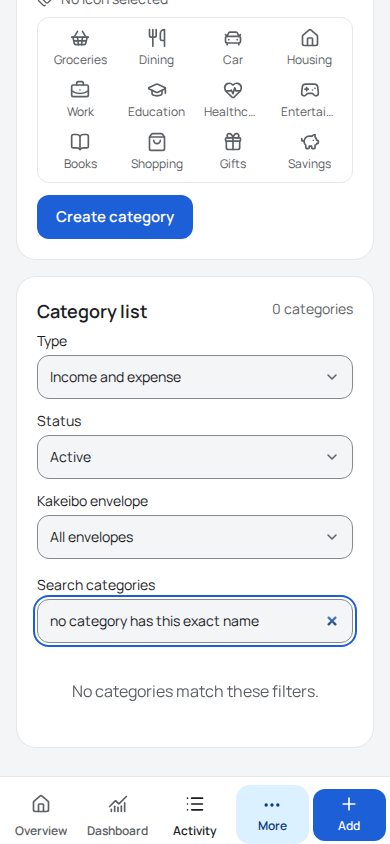
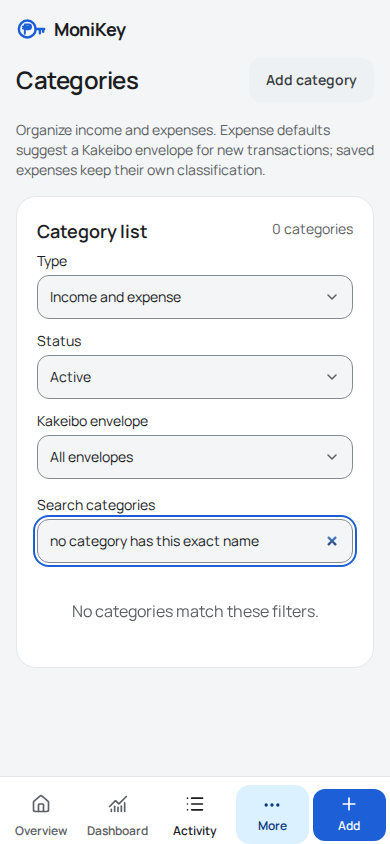
fix(frontend): make category editor mobile-friendly

diff --git a/frontend/src/views/CategoriesView.tsx b/frontend/src/views/CategoriesView.tsx
@@ -1,4 +1,4 @@
-import { useMemo, useState, type FormEvent } from 'react'
+import { useMemo, useRef, useState, type FormEvent } from 'react'
 
 import type { DataSource } from '@/dataSource'
 import { ENVELOPES, ENVELOPE_INFO, envelopeLabel } from '@/lib/kakeibo'
@@ -10,6 +10,7 @@ import { PageHeader } from '@/components/PageHeader'
 import { CategoryIconPicker } from '@/components/CategoryIconPicker'
 import { CategoryIcon } from '@/lib/categoryIcons'
 import { isCategoryIconKey, type CategoryIconKey } from '@/lib/categoryIconRegistry'
+import { Dialog, DialogBody, DialogContent, DialogDescription, DialogFooter, DialogHeader, DialogTitle, DialogTrigger } from '@/components/ui/dialog'
 import type { Category, CategoryType, KakeiboEnvelope } from '@/types'
 import type { Resource } from '@/useResource'
 
@@ -22,6 +23,7 @@ export function CategoriesView({ categories: resource, source, onChanged, onAdd 
   const [envelope, setEnvelope] = useState<KakeiboEnvelope | 'all'>('all')
   const [query, setQuery] = useState('')
   const [pageIndex, setPageIndex] = useState(0)
+  const [editorOpen, setEditorOpen] = useState(false)
   const [editing, setEditing] = useState<Category | null>(null)
   const [name, setName] = useState('')
   const [editEnvelope, setEditEnvelope] = useState<KakeiboEnvelope | ''>('')
@@ -29,6 +31,11 @@ export function CategoriesView({ categories: resource, source, onChanged, onAdd 
   const [saving, setSaving] = useState(false)
   const [message, setMessage] = useState('')
   const [formError, setFormError] = useState('')
+  const [actionError, setActionError] = useState('')
+  const nameRef = useRef<HTMLInputElement>(null)
+  const addTriggerRef = useRef<HTMLButtonElement>(null)
+  const openerRef = useRef<HTMLButtonElement>(null)
+  const focusAddOnCloseRef = useRef(false)
   const rows = useMemo(() => filterCategories(resource.data ?? [], { type, status, envelope, query }), [resource.data, type, status, envelope, query])
   const pageCount = Math.max(1, Math.ceil(rows.length / PAGE_SIZE))
   const page = Math.min(pageIndex, pageCount - 1)
@@ -41,19 +48,28 @@ export function CategoriesView({ categories: resource, source, onChanged, onAdd 
     setEditEnvelope(category?.defaultEnvelope ?? '')
     setIconKey(isCategoryIconKey(category?.iconKey) ? category.iconKey : null)
     setFormError('')
+    setActionError('')
     setMessage('')
+    focusAddOnCloseRef.current = false
   }
 
-  const run = async (action: () => Promise<void>, success: string) => {
+  const run = async (action: () => Promise<void>, success: string, focusAddOnClose = false) => {
     setSaving(true)
     setFormError('')
+    setActionError('')
     try {
       await action()
       setMessage(success)
-      setEditing(null)
+      if (editorOpen) {
+        focusAddOnCloseRef.current = focusAddOnClose
+        setEditorOpen(false)
+        setEditing(null)
+      }
       onChanged()
     } catch (error) {
-      setFormError(error instanceof Error ? error.message : 'Could not save this category. Try again.')
+      const errorText = error instanceof Error ? error.message : 'Could not save this category. Try again.'
+      if (editorOpen) setFormError(errorText)
+      else setActionError(errorText)
     } finally {
       setSaving(false)
     }
@@ -66,27 +82,51 @@ export function CategoriesView({ categories: resource, source, onChanged, onAdd 
     const chosen = editing ? editing.type : formType
     const defaultEnvelope = chosen === 'expense' ? editEnvelope || null : null
     if (!editing) { setType(chosen); setStatus('active'); setEnvelope('all'); setPageIndex(0) }
-    if (editing) void run(() => source.updateCategory(editing.id, { name: normalized, defaultEnvelope, iconKey }), 'Category updated.')
+    if (editing) {
+      const updated = { ...editing, name: normalized, defaultEnvelope, iconKey }
+      const remainsVisible = filterCategories([updated], { type, status, envelope, query }).length > 0
+      void run(() => source.updateCategory(editing.id, { name: normalized, defaultEnvelope, iconKey }), 'Category updated.', !remainsVisible)
+    }
     else void run(() => source.createCategory({ name: normalized, type: chosen, defaultEnvelope, iconKey }), 'Category created.')
   }
 
-  return <div>
-    <PageHeader title="Categories" onAdd={onAdd} />
+  return <Dialog open={editorOpen} onOpenChange={(open) => { if (open || !saving) setEditorOpen(open) }}>
+    <div>
+    <PageHeader title="Categories" onAdd={onAdd}>
+      <DialogTrigger asChild><Button ref={addTriggerRef} variant="secondary" size="sm" onClick={(event) => { openerRef.current = event.currentTarget; beginEdit() }}>Add category</Button></DialogTrigger>
+    </PageHeader>
     <p className="mb-4 text-sm text-muted-foreground">Organize income and expenses. Expense defaults suggest a Kakeibo envelope for new transactions; saved expenses keep their own classification.</p>
     {message && <p role="status" className="mb-4 rounded-control bg-success-soft px-4 py-3 text-sm text-income-ink">{message}</p>}
-    <Card className="mb-4">
-      <CardHeader><CardTitle>{editing ? `Edit ${editing.name}` : 'Add a category'}</CardTitle><CardDescription>Names are unique within income or expense categories.</CardDescription></CardHeader>
-      <CardContent>
-        <form onSubmit={submit} className="grid gap-3 md:grid-cols-[minmax(0,1fr)_minmax(180px,0.7fr)_auto] md:items-end">
-          <label className="grid gap-1.5 text-sm font-medium">Name<input autoComplete="off" maxLength={60} value={name} onChange={(event) => setName(event.target.value)} className="min-h-11 rounded-control border border-input bg-background px-3" /></label>
+    {actionError && <p role="alert" className="mb-4 rounded-control bg-destructive/10 px-4 py-3 text-sm text-destructive">{actionError}</p>}
+    <DialogContent
+      onOpenAutoFocus={(event) => { event.preventDefault(); nameRef.current?.focus() }}
+      onCloseAutoFocus={(event) => {
+        event.preventDefault()
+        const focusTarget = focusAddOnCloseRef.current || !openerRef.current?.isConnected ? addTriggerRef.current : openerRef.current
+        window.requestAnimationFrame(() => focusTarget?.focus())
+        focusAddOnCloseRef.current = false
+      }}
+      onEscapeKeyDown={(event) => saving && event.preventDefault()}
+      onInteractOutside={(event) => saving && event.preventDefault()}
+    >
+      <DialogHeader>
+        <DialogTitle>{editing ? `Edit ${editing.name}` : 'Add a category'}</DialogTitle>
+        <DialogDescription>Names are unique within income or expense categories.</DialogDescription>
+      </DialogHeader>
+      <DialogBody>
+        <form id="category-editor-form" onSubmit={submit} className="grid gap-3">
+          <label className="grid gap-1.5 text-sm font-medium">Name<input ref={nameRef} autoComplete="off" maxLength={60} value={name} onChange={(event) => setName(event.target.value)} className="min-h-11 rounded-control border border-input bg-background px-3" /></label>
           {!editing && <label className="grid gap-1.5 text-sm font-medium">Type<select value={formType} onChange={(event) => setFormType(event.target.value as CategoryType)} className="min-h-11 rounded-control border border-input bg-background px-3"><option value="expense">Expense</option><option value="income">Income</option></select></label>}
           {(editing ? editing.type === 'expense' : formType !== 'income') && <label className="grid gap-1.5 text-sm font-medium">Default Kakeibo envelope<select value={editEnvelope} onChange={(event) => setEditEnvelope(event.target.value as KakeiboEnvelope | '')} className="min-h-11 rounded-control border border-input bg-background px-3"><option value="">No default</option>{ENVELOPES.map((item) => <option key={item} value={item}>{ENVELOPE_INFO[item].label}</option>)}</select></label>}
-          <div className="md:col-span-full"><CategoryIconPicker value={iconKey} onChange={setIconKey} /></div>
-          {formError && <p role="alert" className="text-sm text-destructive md:col-span-full">{formError}</p>}
-          <div className="flex gap-2 md:col-start-3 md:row-start-1">{editing && <Button type="button" variant="secondary" onClick={() => beginEdit()}>Cancel</Button>}<Button disabled={saving}>{saving ? 'Saving…' : editing ? 'Save changes' : 'Create category'}</Button></div>
+          <CategoryIconPicker value={iconKey} onChange={setIconKey} />
+          {formError && <p role="alert" className="text-sm text-destructive">{formError}</p>}
         </form>
-      </CardContent>
-    </Card>
+      </DialogBody>
+      <DialogFooter>
+        <Button type="button" variant="secondary" disabled={saving} onClick={() => setEditorOpen(false)}>Cancel</Button>
+        <Button type="submit" form="category-editor-form" disabled={saving}>{saving ? 'Saving…' : editing ? 'Save changes' : 'Create category'}</Button>
+      </DialogFooter>
+    </DialogContent>
     <Card>
       <CardHeader><CardTitle>Category list</CardTitle><CardDescription>{rows.length} {rows.length === 1 ? 'category' : 'categories'}{rows.length > PAGE_SIZE ? ` · Page ${page + 1} of ${pageCount}` : ''}</CardDescription></CardHeader>
       <CardContent>
@@ -96,9 +136,10 @@ export function CategoriesView({ categories: resource, source, onChanged, onAdd 
           <label className="grid gap-1 text-sm">Kakeibo envelope<select aria-label="Filter Kakeibo envelope" value={envelope} onChange={(event) => setEnvelope(event.target.value as KakeiboEnvelope | 'all')} className="min-h-11 rounded-control border border-input bg-background px-3"><option value="all">All envelopes</option>{ENVELOPES.map((item) => <option key={item} value={item}>{ENVELOPE_INFO[item].label}</option>)}</select></label>
         </div>
         <label className="mb-3 grid gap-1 text-sm">Search categories<input type="search" value={query} onChange={(event) => setQuery(event.target.value)} placeholder="Search by name" className="min-h-11 rounded-control border border-input bg-background px-3" /></label>
-        {resource.loading && !resource.data ? <p role="status" className="py-6 text-center text-muted-foreground">Loading categories…</p> : resource.error ? <ErrorBlock what="categories" updatedAt={resource.updatedAt} onRetry={resource.retry} /> : rows.length === 0 ? <p role="status" className="py-6 text-center text-muted-foreground">{categoryEmptyMessage((resource.data?.length ?? 0) > 0)}</p> : <ul className="divide-y divide-border">{visibleRows.map((category) => <li key={category.id} className="flex flex-wrap items-center justify-between gap-3 py-3"><div className="min-w-0"><p className="flex items-center gap-2 font-medium"><CategoryIcon iconKey={category.iconKey} />{category.name} <span className="ml-1 text-xs font-normal text-muted-foreground">{category.type}{category.archived ? ' · archived' : ''}</span></p>{category.type === 'expense' && <p className="text-sm text-muted-foreground">Default: {envelopeLabel(category.defaultEnvelope)}</p>}</div><div className="flex flex-wrap gap-2"><Button aria-label={`Edit ${category.name}`} variant="secondary" size="sm" onClick={() => beginEdit(category)}>Edit</Button>{category.archived ? <Button aria-label={`Restore ${category.name}`} variant="secondary" size="sm" disabled={saving} onClick={() => void run(() => source.setCategoryArchived(category.id, false), 'Category restored.')}>Restore</Button> : <Button aria-label={`Archive ${category.name}`} variant="secondary" size="sm" disabled={saving} onClick={() => { if (window.confirm(`Archive “${category.name}”? Historical transactions will keep this category.`)) void run(() => source.setCategoryArchived(category.id, true), 'Category archived.') }}>Archive</Button>}<Button aria-label={`Delete ${category.name}`} variant="ghost" size="sm" disabled={saving} onClick={() => { if (window.confirm(`Permanently delete “${category.name}”? This only works when no transactions refer to it.`)) void run(() => source.deleteCategory(category.id), 'Category deleted.') }}>Delete</Button></div></li>)}</ul>}
+        {resource.loading && !resource.data ? <p role="status" className="py-6 text-center text-muted-foreground">Loading categories…</p> : resource.error ? <ErrorBlock what="categories" updatedAt={resource.updatedAt} onRetry={resource.retry} /> : rows.length === 0 ? <p role="status" className="py-6 text-center text-muted-foreground">{categoryEmptyMessage((resource.data?.length ?? 0) > 0)}</p> : <ul className="divide-y divide-border">{visibleRows.map((category) => <li key={category.id} className="flex flex-wrap items-center justify-between gap-3 py-3"><div className="min-w-0"><p className="flex items-center gap-2 font-medium"><CategoryIcon iconKey={category.iconKey} />{category.name} <span className="ml-1 text-xs font-normal text-muted-foreground">{category.type}{category.archived ? ' · archived' : ''}</span></p>{category.type === 'expense' && <p className="text-sm text-muted-foreground">Default: {envelopeLabel(category.defaultEnvelope)}</p>}</div><div className="flex flex-wrap gap-2"><DialogTrigger asChild><Button aria-label={`Edit ${category.name}`} variant="secondary" size="sm" onClick={(event) => { openerRef.current = event.currentTarget; beginEdit(category) }}>Edit</Button></DialogTrigger>{category.archived ? <Button aria-label={`Restore ${category.name}`} variant="secondary" size="sm" disabled={saving} onClick={() => void run(() => source.setCategoryArchived(category.id, false), 'Category restored.')}>Restore</Button> : <Button aria-label={`Archive ${category.name}`} variant="secondary" size="sm" disabled={saving} onClick={() => { if (window.confirm(`Archive “${category.name}”? Historical transactions will keep this category.`)) void run(() => source.setCategoryArchived(category.id, true), 'Category archived.') }}>Archive</Button>}<Button aria-label={`Delete ${category.name}`} variant="ghost" size="sm" disabled={saving} onClick={() => { if (window.confirm(`Permanently delete “${category.name}”? This only works when no transactions refer to it.`)) void run(() => source.deleteCategory(category.id), 'Category deleted.') }}>Delete</Button></div></li>)}</ul>}
         {rows.length > PAGE_SIZE && <div className="mt-4 flex items-center justify-between gap-3"><Button variant="secondary" disabled={page === 0} onClick={() => setPageIndex(page - 1)}>Previous</Button><span className="text-sm text-muted-foreground">Page {page + 1} of {pageCount}</span><Button variant="secondary" disabled={page >= pageCount - 1} onClick={() => setPageIndex(page + 1)}>Next</Button></div>}
       </CardContent>
     </Card>
-  </div>
+    </div>
+  </Dialog>
 }

diff --git a/frontend/browser-tests/categories.spec.ts b/frontend/browser-tests/categories.spec.ts
@@ -27,6 +27,34 @@ test('category management fits supported viewports and has no axe violations', a
   }
 })
 
+test('category editor dialog fits supported viewports, focuses the name field and restores focus', async ({ page }) => {
+  await page.setViewportSize({ width: 390, height: 844 })
+  await openCategories(page)
+  const trigger = page.getByRole('button', { name: 'Add category' })
+
+  for (const width of [320, 390, 768, 1024, 1440]) {
+    await page.setViewportSize({ width, height: 844 })
+    await trigger.click()
+    const dialog = page.getByRole('dialog', { name: 'Add a category' })
+    await expect(page.getByLabel('Name', { exact: true })).toBeFocused()
+    const layout = await page.evaluate(() => ({ width: window.innerWidth, scroll: document.documentElement.scrollWidth }))
+    const bounds = await dialog.boundingBox()
+    expect(layout.scroll, `document overflow at ${width}px`).toBeLessThanOrEqual(layout.width)
+    expect(bounds?.x, `dialog starts offscreen at ${width}px`).toBeGreaterThanOrEqual(0)
+    expect((bounds?.x ?? 0) + (bounds?.width ?? width), `dialog ends offscreen at ${width}px`).toBeLessThanOrEqual(width)
+    const axe = await new AxeBuilder({ page }).include('[role="dialog"]').withTags(['wcag2a', 'wcag2aa', 'wcag21a', 'wcag21aa']).analyze()
+    expect(axe.violations.map(({ id, impact, description }) => ({ id, impact, description })), `axe violations at ${width}px`).toEqual([])
+    if (width === 390 && process.env.MONIKEY_CAPTURE_PHASE_D_SCREENSHOTS === '1') {
+      const screenshots = '../docs/design/screenshots/ui-modernization/phase-d-polish'
+      await mkdir(screenshots, { recursive: true })
+      await page.screenshot({ path: `${screenshots}/category-editor-390.png` })
+    }
+    await page.keyboard.press('Escape')
+    await expect(dialog).toHaveCount(0)
+    await expect(trigger).toBeFocused()
+  }
+})
+
 test('category search explains when filters have no matches', async ({ page }) => {
   const screenshots = '../docs/design/screenshots/ui-modernization/phase-d-polish'
   const captureScreenshots = process.env.MONIKEY_CAPTURE_PHASE_D_SCREENSHOTS === '1'
@@ -42,6 +70,20 @@ test('category search explains when filters have no matches', async ({ page }) =
   }
 })
 
+test('empty category collection points to the supported create action', async ({ page }) => {
+  await page.route('**/api/categories', async (route) => {
+    if (route.request().method() === 'GET') {
+      await route.fulfill({ status: 200, contentType: 'application/json', body: '[]' })
+      return
+    }
+    await route.continue()
+  })
+  await openCategories(page)
+  await expect(page.getByText('No categories yet. Select Add category to create one.', { exact: true })).toBeVisible()
+  await page.getByRole('button', { name: 'Add category' }).click()
+  await expect(page.getByRole('dialog', { name: 'Add a category' })).toBeVisible()
+})
+
 test('failed category reads expose a retry and recover', async ({ page }) => {
   await openCategories(page)
   const categoryName = `QA Retry ${Date.now().toString(36)}`
@@ -54,6 +96,7 @@ test('failed category reads expose a retry and recover', async ({ page }) => {
     }
     await route.continue()
   })
+  await page.getByRole('button', { name: 'Add category' }).click()
   await page.getByLabel('Name', { exact: true }).fill(categoryName)
   await page.getByRole('button', { name: 'Create category' }).click()
   await expect(page.getByText('Category created.', { exact: true })).toBeVisible()
@@ -68,9 +111,11 @@ test('income and expense categories validate, save, filter, search and paginate'
   const suffix = Date.now().toString(36)
   const incomeName = `QA Income ${suffix}`
   const expenseName = `QA Expense ${suffix}`
+  const renamedExpenseName = `QA Renamed ${suffix}`
   await page.setViewportSize({ width: 1440, height: 1000 })
   await openCategories(page)
 
+  await page.getByRole('button', { name: 'Add category' }).click()
   await page.getByRole('button', { name: 'Create category' }).click()
   await expect(page.getByRole('alert')).toHaveText('Enter a category name.')
   await page.getByRole('combobox', { name: 'Type', exact: true }).first().selectOption('income')
@@ -81,10 +126,13 @@ test('income and expense categories validate, save, filter, search and paginate'
   await page.getByLabel('Search categories').fill(incomeName)
   await expect(page.getByRole('button', { name: `Edit ${incomeName}` })).toBeVisible()
 
+  await page.getByRole('button', { name: 'Add category' }).click()
   await page.getByLabel('Name', { exact: true }).fill(incomeName)
   await page.getByRole('button', { name: 'Create category' }).click()
   await expect(page.getByRole('alert')).toContainText('already exists')
 
+  await page.getByRole('button', { name: 'Cancel' }).click()
+  await page.getByRole('button', { name: 'Add category' }).click()
   await page.getByRole('combobox', { name: 'Type', exact: true }).first().selectOption('expense')
   await page.getByLabel('Name', { exact: true }).fill(expenseName)
   await page.getByLabel('Default Kakeibo envelope').selectOption('needs')
@@ -98,11 +146,13 @@ test('income and expense categories validate, save, filter, search and paginate'
   await expect(page.getByRole('listitem')).toHaveCount(1)
   await expect(page.getByText('Default: Needs')).toBeVisible()
   await page.getByRole('button', { name: `Edit ${expenseName}` }).click()
-  await page.getByLabel('Name', { exact: true }).fill(`${expenseName} Renamed`)
+  await page.getByLabel('Name', { exact: true }).fill(renamedExpenseName)
   await page.getByLabel('Default Kakeibo envelope').selectOption('culture')
   await page.getByRole('button', { name: 'Save changes' }).click()
-  await page.getByLabel('Search categories').fill(`${expenseName} Renamed`)
-  await expect(page.getByRole('button', { name: `Edit ${expenseName} Renamed` })).toBeVisible()
+  await expect(page.getByRole('dialog')).toHaveCount(0)
+  await expect(page.getByRole('button', { name: 'Add category' })).toBeFocused()
+  await page.getByLabel('Search categories').fill(renamedExpenseName)
+  await expect(page.getByRole('button', { name: `Edit ${renamedExpenseName}` })).toBeVisible()
   await expect(page.getByText('Default: Culture')).toBeVisible()
 
   const manyPrefix = `QA Page ${suffix}`
@@ -131,6 +181,7 @@ test('category icon picker supports search, keyboard selection, edit and persist
   expect(account.status()).toBe(201)
   await openCategories(page)
   const name = `QA Icon ${Date.now().toString(36)}`
+  await page.getByRole('button', { name: 'Add category' }).click()
   await page.getByLabel('Name', { exact: true }).fill(name)
 
   const search = page.getByLabel('Search category icons')
@@ -155,8 +206,11 @@ test('category icon picker supports search, keyboard selection, edit and persist
   await page.reload()
   await openCategories(page)
   await page.getByLabel('Search categories').fill(name)
-  await page.getByRole('button', { name: `Edit ${name}` }).click()
+  const editTrigger = page.getByRole('button', { name: `Edit ${name}` })
+  await editTrigger.click()
   await expect(page.getByRole('button', { name: 'Work icon' })).toHaveAttribute('aria-pressed', 'true')
+  await page.getByRole('button', { name: 'Cancel' }).click()
+  await expect(editTrigger).toBeFocused()
 
   const addTransaction = page.getByRole('button', { name: /Add transaction/ })
   await addTransaction.click()
@@ -184,6 +238,7 @@ test('category icon picker supports search, keyboard selection, edit and persist
   await page.getByRole('button', { name: 'Clear icon' }).click()
   await page.getByRole('button', { name: 'Save changes' }).click()
   await expect(page.getByText('Category updated.', { exact: true })).toBeVisible()
+  await expect(page.getByRole('button', { name: `Edit ${name}` })).toBeFocused()
   await page.reload()
   await openCategories(page)
   await page.getByLabel('Search categories').fill(name)

diff --git a/frontend/browser-tests/quick-add-categories.spec.ts b/frontend/browser-tests/quick-add-categories.spec.ts
@@ -37,6 +37,7 @@ test('Quick Add preserves category defaults, overrides, history, archive and res
   await page.goto('/')
   await openCategories(page)
 
+  await page.getByRole('button', { name: 'Add category' }).click()
   await page.getByLabel('Name', { exact: true }).fill(initialName)
   await page.getByRole('combobox', { name: 'Type', exact: true }).first().selectOption('expense')
   await page.getByLabel('Default Kakeibo envelope').selectOption('needs')
@@ -44,6 +45,7 @@ test('Quick Add preserves category defaults, overrides, history, archive and res
   await page.getByLabel('Search categories').fill(initialName)
   await expect(page.getByRole('button', { name: `Edit ${initialName}` })).toBeVisible()
 
+  await page.getByRole('button', { name: 'Add category' }).click()
   await page.getByLabel('Name', { exact: true }).fill(unusedName)
   await page.getByRole('button', { name: 'Create category' }).click()
   await page.getByLabel('Search categories').fill(unusedName)
@@ -52,6 +54,7 @@ test('Quick Add preserves category defaults, overrides, history, archive and res
   await page.getByRole('button', { name: `Delete ${unusedName}` }).click()
   await expect(page.getByRole('button', { name: `Edit ${unusedName}` })).toHaveCount(0)
 
+  await page.getByRole('button', { name: 'Add category' }).click()
   await page.getByRole('combobox', { name: 'Type', exact: true }).first().selectOption('income')
   await expect(page.getByLabel('Default Kakeibo envelope')).toHaveCount(0)
   await page.getByLabel('Name', { exact: true }).fill(incomeName)

diff --git a/frontend/src/lib/categoryList.ts b/frontend/src/lib/categoryList.ts
@@ -3,7 +3,7 @@ import type { Category, CategoryType, KakeiboEnvelope } from '../types.ts'
 export type CategoryStatus = 'active' | 'archived' | 'all'
 
 export function categoryEmptyMessage(hasCategories: boolean): string {
-  return hasCategories ? 'No categories match these filters.' : 'No categories yet. Create one using the form above.'
+  return hasCategories ? 'No categories match these filters.' : 'No categories yet. Select Add category to create one.'
 }
 
 export function filterCategories(

diff --git a/frontend/tests/categoryList.test.ts b/frontend/tests/categoryList.test.ts
@@ -20,6 +20,6 @@ test('category filters compose type, lifecycle, envelope and case-insensitive na
 })
 
 test('category empty copy distinguishes an empty collection from filtered no matches', () => {
-  assert.equal(categoryEmptyMessage(false), 'No categories yet. Create one using the form above.')
+  assert.equal(categoryEmptyMessage(false), 'No categories yet. Select Add category to create one.')
   assert.equal(categoryEmptyMessage(true), 'No categories match these filters.')
 })

diff --git a/docs/design/UI_UX_MODERNIZATION_AUDIT.md b/docs/design/UI_UX_MODERNIZATION_AUDIT.md
@@ -98,6 +98,6 @@ The current phone bar has been changed to Overview, Activity, Accounts, More, an
 
 ## Phase D implemented change
 
-Overview now offers a compact **View analytics** action beside its existing period controls; this opens the separate Dashboard without adding charts to the home page or changing its balance hierarchy. Categories now distinguishes an actually empty collection from filters that return no matches. The category form remains the action for creating a first category. Mobile and desktop Overview screenshots are in [`screenshots/ui-modernization/phase-d-polish/`](screenshots/ui-modernization/phase-d-polish/), with the earlier Overview captures serving as the before comparison.
+Overview now offers a compact **View analytics** action beside its existing period controls; this opens the separate Dashboard without adding charts to the home page or changing its balance hierarchy. Categories distinguishes an actually empty collection from filters that return no matches. Create and edit use the shared accessible dialog, keeping the category list visible without pushing it below a long inline form. The dialog focuses the name field, restores focus to the opener when it remains visible (or to Add category if updated filters hide that row), prevents dismissal while saving, and has viewport and axe coverage from 320px to 1440px. Mobile and desktop Overview screenshots and a mobile category-editor screenshot are in [`screenshots/ui-modernization/phase-d-polish/`](screenshots/ui-modernization/phase-d-polish/), with the earlier Overview captures serving as the before comparison.
 
 The Overview accessibility pass also found that the account-card button's custom accessible label could omit or reorder visible card text. It now derives its name from the visible account and balance content and appends a concise “View details” action hint; no wallet or balance behavior changed.

diff --git a/CHANGELOG.md b/CHANGELOG.md
@@ -36,6 +36,7 @@ version. GitHub Release objects are separate metadata; none existed at the
 - Reorganized narrow-screen navigation into primary destinations and an accessible More sheet so labels and actions remain usable at 320px.
 - Added Dashboard to direct navigation and placed Accounts with Kakeibo and Categories in the phone More menu to retain five clear bottom-bar targets.
 - Added a compact Overview link to Dashboard and clarified empty Categories versus filtered no-results messaging (Draft PR #29).
+- Moved category create/edit into the shared accessible dialog so the category list stays visible on mobile; verified focus, viewport bounds, and dialog accessibility.
 - Aligned account-card accessible names with their visible names and balances, while retaining a screen-reader hint for opening details (Draft PR #29).
 
 ### Database

diff --git a/docs/design/screenshots/ui-modernization/phase-d-polish/README.md b/docs/design/screenshots/ui-modernization/phase-d-polish/README.md
@@ -5,5 +5,6 @@ Screenshots captured from the rendered React application with fictional local mo
 - `overview-mobile-390.png` — Overview at a 390px viewport with the compact View analytics action; current net position and account summaries remain first in the content hierarchy.
 - `overview-desktop-1440.png` — Overview at a 1440px viewport with the same Dashboard action.
 - `categories-filtered-empty-390.png` — Categories after a search returns no matches.
+- `category-editor-390.png` — Category create dialog on mobile, showing the list-preserving editor layout.
 
 For before comparisons, see [`../baseline/overview-mobile.png`](../baseline/overview-mobile.png), [`../baseline/overview-desktop.png`](../baseline/overview-desktop.png), and [`../baseline/categories-mobile.png`](../baseline/categories-mobile.png).
